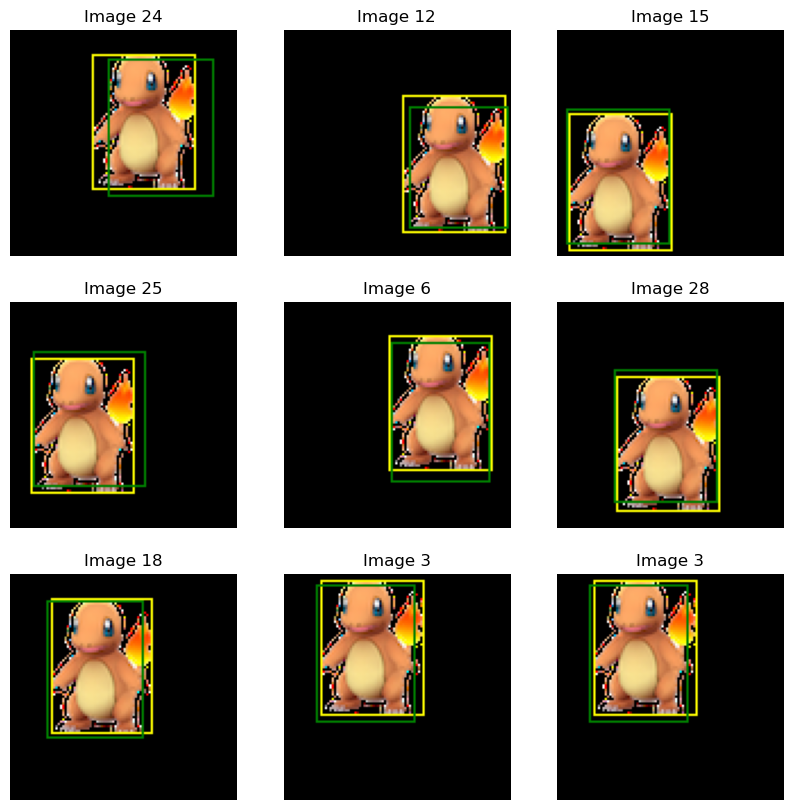
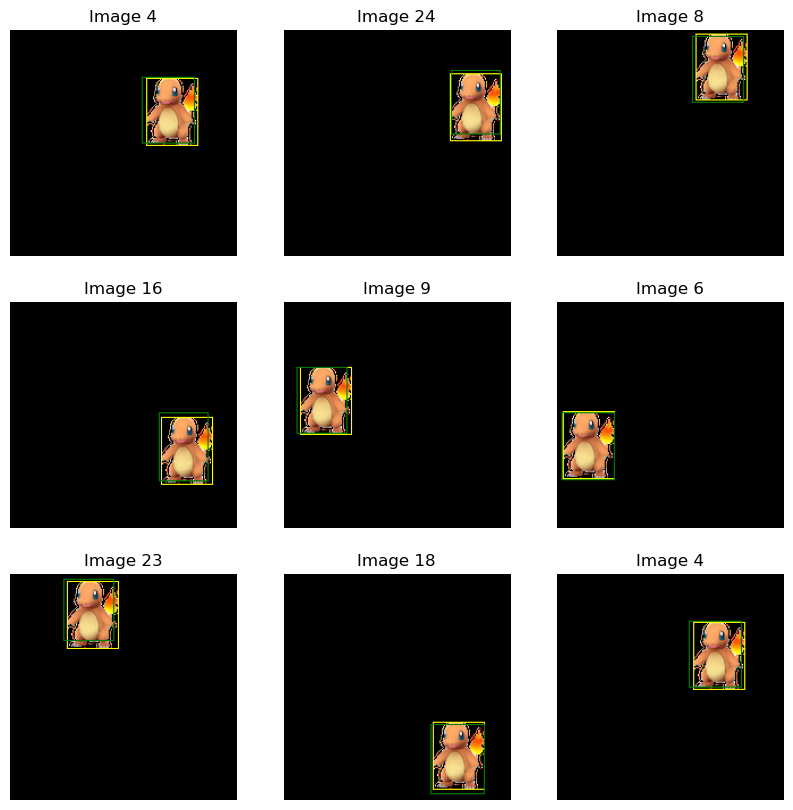
Updated localization 2 to improve accuracy

diff --git a/_posts/2022-10-30-localization-2.md b/_posts/2022-10-30-localization-2.md
@@ -28,11 +28,11 @@ import random
 from PIL import Image, ImageDraw
 ```
 
-I started with the final code from [Localization 1]([https://github.com/jpmasters/jupyter-notebooks/blob/main/localization-1.ipynb](https://github.com/jpmasters/jupyter-notebooks/blob/main/localization-1.ipynb)) and then made the necessary modifications from there. One change I did make after having seen LP's implementation in Udemy was to change the size of the images from the VGG16 default of 224 x 224 pixels to a more manageable 100 x 100 pixels.
+I started with the final code from [Localization 1]([https://github.com/jpmasters/jupyter-notebooks/blob/main/localization-1.ipynb](https://github.com/jpmasters/jupyter-notebooks/blob/main/localization-1.ipynb)) and then made the necessary modifications from there. One change I did make after having seen LP's implementation in Udemy was to change the size of the images from the VGG16 default of 224 x 224 pixels to a more manageable 100 x 100 pixels
 
 
 ```python
-IMAGE_DIM = 100
+IMAGE_DIM = 200
 ```
 
 To recap, I created the model by starting with a trained, topless VGG16, flattening the outputs as they'll be 2D tensors, and the final dense layer with four outputs and sigmoid activation.
@@ -67,51 +67,51 @@ model.summary()
     _________________________________________________________________
      Layer (type)                Output Shape              Param #   
     =================================================================
-     input_7 (InputLayer)        [(None, 100, 100, 3)]     0         
+     input_12 (InputLayer)       [(None, 200, 200, 3)]     0         
                                                                      
-     block1_conv1 (Conv2D)       (None, 100, 100, 64)      1792      
+     block1_conv1 (Conv2D)       (None, 200, 200, 64)      1792      
                                                                      
-     block1_conv2 (Conv2D)       (None, 100, 100, 64)      36928     
+     block1_conv2 (Conv2D)       (None, 200, 200, 64)      36928     
                                                                      
-     block1_pool (MaxPooling2D)  (None, 50, 50, 64)        0         
+     block1_pool (MaxPooling2D)  (None, 100, 100, 64)      0         
                                                                      
-     block2_conv1 (Conv2D)       (None, 50, 50, 128)       73856     
+     block2_conv1 (Conv2D)       (None, 100, 100, 128)     73856     
                                                                      
-     block2_conv2 (Conv2D)       (None, 50, 50, 128)       147584    
+     block2_conv2 (Conv2D)       (None, 100, 100, 128)     147584    
                                                                      
-     block2_pool (MaxPooling2D)  (None, 25, 25, 128)       0         
+     block2_pool (MaxPooling2D)  (None, 50, 50, 128)       0         
                                                                      
-     block3_conv1 (Conv2D)       (None, 25, 25, 256)       295168    
+     block3_conv1 (Conv2D)       (None, 50, 50, 256)       295168    
                                                                      
-     block3_conv2 (Conv2D)       (None, 25, 25, 256)       590080    
+     block3_conv2 (Conv2D)       (None, 50, 50, 256)       590080    
                                                                      
-     block3_conv3 (Conv2D)       (None, 25, 25, 256)       590080    
+     block3_conv3 (Conv2D)       (None, 50, 50, 256)       590080    
                                                                      
-     block3_pool (MaxPooling2D)  (None, 12, 12, 256)       0         
+     block3_pool (MaxPooling2D)  (None, 25, 25, 256)       0         
                                                                      
-     block4_conv1 (Conv2D)       (None, 12, 12, 512)       1180160   
+     block4_conv1 (Conv2D)       (None, 25, 25, 512)       1180160   
                                                                      
-     block4_conv2 (Conv2D)       (None, 12, 12, 512)       2359808   
+     block4_conv2 (Conv2D)       (None, 25, 25, 512)       2359808   
                                                                      
-     block4_conv3 (Conv2D)       (None, 12, 12, 512)       2359808   
+     block4_conv3 (Conv2D)       (None, 25, 25, 512)       2359808   
                                                                      
-     block4_pool (MaxPooling2D)  (None, 6, 6, 512)         0         
+     block4_pool (MaxPooling2D)  (None, 12, 12, 512)       0         
                                                                      
-     block5_conv1 (Conv2D)       (None, 6, 6, 512)         2359808   
+     block5_conv1 (Conv2D)       (None, 12, 12, 512)       2359808   
                                                                      
-     block5_conv2 (Conv2D)       (None, 6, 6, 512)         2359808   
+     block5_conv2 (Conv2D)       (None, 12, 12, 512)       2359808   
                                                                      
-     block5_conv3 (Conv2D)       (None, 6, 6, 512)         2359808   
+     block5_conv3 (Conv2D)       (None, 12, 12, 512)       2359808   
                                                                      
-     block5_pool (MaxPooling2D)  (None, 3, 3, 512)         0         
+     block5_pool (MaxPooling2D)  (None, 6, 6, 512)         0         
                                                                      
-     flatten_6 (Flatten)         (None, 4608)              0         
+     flatten_11 (Flatten)        (None, 18432)             0         
                                                                      
-     dense_6 (Dense)             (None, 4)                 18436     
+     dense_11 (Dense)            (None, 4)                 73732     
                                                                      
     =================================================================
-    Total params: 14,733,124
-    Trainable params: 18,436
+    Total params: 14,788,420
+    Trainable params: 73,732
     Non-trainable params: 14,714,688
     _________________________________________________________________
 
@@ -136,8 +136,7 @@ class LocalizationSequence(tf.keras.utils.Sequence):
         Sets the range of y to 0..1 and applies the sigmoid function
         so it matches the output of the model.
         """
-        rv = (y / IMAGE_DIM)
-        return tf.math.sigmoid(rv)
+        return y / IMAGE_DIM
         
         
     def generate_image(self):
@@ -205,7 +204,7 @@ plt.show()
 
 
     
-![Sample output from Sequence](/assets/localization-2-1.png)
+![Output from the LocalizationSequence class](/assets/localization-2-1.png)
     
 
 
@@ -213,29 +212,19 @@ Next we train the model using the LocalizationSequence object.
 
 
 ```python
-history = model.fit(seq, epochs=10)
+history = model.fit(seq, epochs=5)
 ```
 
-    Epoch 1/10
-    32/32 [==============================] - 34s 1s/step - loss: 0.6796 - accuracy: 0.6367
-    Epoch 2/10
-    32/32 [==============================] - 34s 1s/step - loss: 0.6722 - accuracy: 0.8906
-    Epoch 3/10
-    32/32 [==============================] - 35s 1s/step - loss: 0.6720 - accuracy: 0.9629
-    Epoch 4/10
-    32/32 [==============================] - 36s 1s/step - loss: 0.6716 - accuracy: 0.9756
-    Epoch 5/10
-    32/32 [==============================] - 36s 1s/step - loss: 0.6717 - accuracy: 0.9834
-    Epoch 6/10
-    32/32 [==============================] - 36s 1s/step - loss: 0.6715 - accuracy: 0.9912
-    Epoch 7/10
-    32/32 [==============================] - 37s 1s/step - loss: 0.6715 - accuracy: 0.9854
-    Epoch 8/10
-    32/32 [==============================] - 36s 1s/step - loss: 0.6718 - accuracy: 0.9941
-    Epoch 9/10
-    32/32 [==============================] - 37s 1s/step - loss: 0.6717 - accuracy: 0.9961
-    Epoch 10/10
-    32/32 [==============================] - 37s 1s/step - loss: 0.6717 - accuracy: 0.9932
+    Epoch 1/5
+    32/32 [==============================] - 175s 6s/step - loss: 0.5997 - accuracy: 0.7266
+    Epoch 2/5
+    32/32 [==============================] - 170s 5s/step - loss: 0.5614 - accuracy: 0.9248
+    Epoch 3/5
+    32/32 [==============================] - 170s 5s/step - loss: 0.5595 - accuracy: 0.9697
+    Epoch 4/5
+    32/32 [==============================] - 178s 6s/step - loss: 0.5577 - accuracy: 0.9697
+    Epoch 5/5
+    32/32 [==============================] - 170s 5s/step - loss: 0.5651 - accuracy: 0.9844
 
 
 Plot the accuracy from the `model.fit()`.
@@ -250,7 +239,7 @@ plt.show()
 
 
     
-![Traning accuracy graph](/assets/localization-2-2.png)
+![Accuracy graph from model.fit](/assets/localization-2-2.png)
     
 
 
@@ -261,23 +250,12 @@ Training can take some time so save out the model so it can be loaded from disk 
 model.save('saved-models/localization-2.h5', overwrite=True)
 ```
 
-The `reverse_sigmoid()` function reverses the sigmoid activation to a value proportional to the image size using the equation:
-
-$$\hat{y} = \ln \left[ {y\over{(1 - y)}} \right]$$
-
-
-```python
-def reverse_sigmoid(y):
-    return np.log(y / (1 - y))
-```
-
-The `to_pil_rect()` function takes the y outputs from the model, reverses the sigmoid activation and converts the values into the correct coordinates for the input.
+The `to_pil_rect()` function takes the y outputs from the model and converts the values into the correct coordinates for the input.
 
 
 ```python
 def to_pil_rect(y):
-    rv = reverse_sigmoid(y)
-    rv = rv * IMAGE_DIM
+    rv = y * IMAGE_DIM
     rv = np.clip(rv, 1, IMAGE_DIM - 1)
     [top, left, height, width] = rv
     height += top
@@ -295,7 +273,7 @@ x, y = seq.__getitem__(0)
 print(f'Generated data for predictions: {x.shape}')
 ```
 
-    Generated data for predictions: (32, 100, 100, 3)
+    Generated data for predictions: (32, 200, 200, 3)
 
 
 Use the trained model to make some predictions from the new batch.
@@ -305,7 +283,7 @@ Use the trained model to make some predictions from the new batch.
 y_predicted = model.predict(x)
 ```
 
-    1/1 [==============================] - 1s 1s/step
+    1/1 [==============================] - 4s 4s/step
 
 
 Create the boxes for both the actual boxes and the predicted ones.
@@ -368,10 +346,8 @@ for i in range(9):
 
 
     
-![Final output](/assets/localization-2-3.png)
+![Final output predicted vs actual boxes](/assets/localization-2-3.png)
     
 
 
 In the output above you can see the green boxes that are the results of the predictions and the yellow boxes that use the same maths to reverse the sigmoid function and validate that that maths is correct.
-
-
